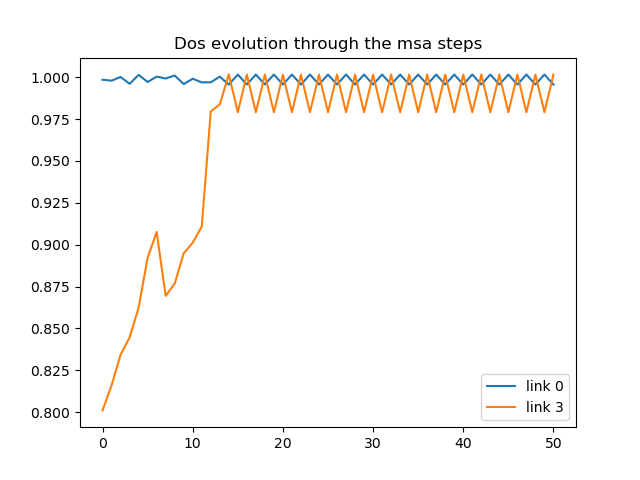
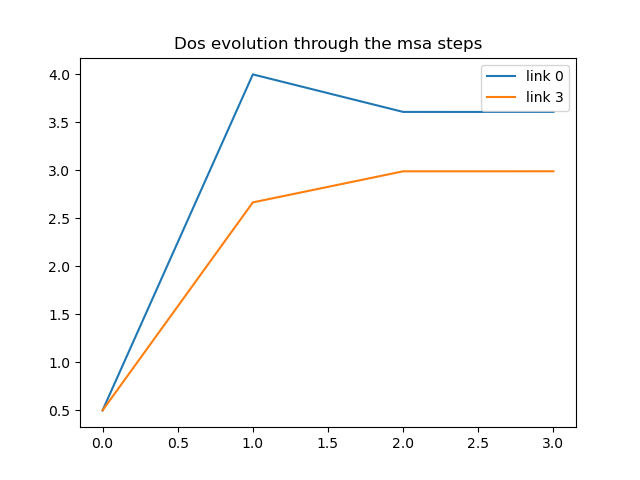
changes + summaries

diff --git a/ownCode/main.py b/ownCode/main.py
@@ -18,137 +18,145 @@ from bokeh.io import export_png
 
 #main function where we merge everything together
 def main():
-        #two cost functions at the moment
-        # 'bpr' to use the bpr cost function
-        # 'WebsterTwoTerm' to use the webster two term delay cost function
-    methodCost = 'bpr'
+    demands = [80,100,115,150,200,400]
+    for demand_i in demands:
+            #two cost functions at the moment
+            # 'bpr' to use the bpr cost function
+            # 'WebsterTwoTerm' to use the webster two term delay cost function
+        methodCost = 'WebsterTwoTerm'
 
-        #two green time policies
-        # 'equisaturation' 
-        # 'P0'
-    methodGreen = 'equisaturation'
+            #two green time policies
+            # 'equisaturation' 
+            # 'P0'
+        methodGreen = 'P0'
 
-    plot = True
+        plot = True
 
-    #setup
-    print("STARTING SETUP")
-    g, ODcentroids, odFile = makeOwnToyNetwork('simple')
-    ODMatrix_location = str(pathlib.Path(__file__).parent)+'/data/'+str(odFile)
-    ODMatrix = np.genfromtxt(ODMatrix_location, delimiter=',')
-    odGraph = getODGraph(ODMatrix_location, ODcentroids)
-    
-    demand = ODMatrix[np.nonzero(ODMatrix)][0]
-    assignment = GreenStaticAssignment(g, odGraph)
+        #setup
+        print("STARTING SETUP")
+        g, ODcentroids, odFile = makeOwnToyNetwork('simple')
+        matrix = np.zeros([4,4])
+        matrix[0,3] = demand_i
+        ODMatrix_location = str(pathlib.Path(__file__).parent)+'/data/'+str(odFile)
+        np.savetxt(ODMatrix_location, matrix, delimiter=",")
+        
+        ODMatrix = np.genfromtxt(ODMatrix_location, delimiter=',')
+        odGraph = getODGraph(ODMatrix_location, ODcentroids)
+        
+        demand = ODMatrix[np.nonzero(ODMatrix)][0]
+        assignment = GreenStaticAssignment(g, odGraph)
 
-    summary_string = 'Cost method: {}\nPolicy: {}\nDemand: {}\n\n'.format(methodCost, methodGreen,demand)
+        summary_string = 'Cost method: {}\nPolicy: {}\nDemand: {}\n\n'.format(methodCost, methodGreen,demand)
 
-    print("RUNNING FIRST STATIC ASSIGNMENT WITH TRAFFIC LIGHTS (equal distributed)")
+        print("RUNNING FIRST STATIC ASSIGNMENT WITH TRAFFIC LIGHTS (equal distributed)")
 
-    #starting with 0.5 at every two link node
-        #hardCoded for simple
-    firstGreen = {0: 0.5, 1: 1, 2: 1, 3: 0.5}
+        #starting with 0.5 at every two link node
+            #hardCoded for simple
+        firstGreen = {0: 0.5, 1: 1, 2: 1, 3: 0.5}
+            #hardCoded for complex 
+        #firstGreen = {0: 1, 1: 1, 2: 0.5, 3: 1, 4: 1, 5: 1, 6: 1, 7: 0.5, 8: 0.5, 9: 1, 10: 1, 11: 1, 12: 0.5, 13: 0.5, 14: 1, 15: 0.5}
+        summary_string += "initial greens: link 0 = {},   link 3 = {}\n".format(firstGreen[0], firstGreen[3])
 
-        #hardCoded for complex 
-    #firstGreen = {0: 1, 1: 1, 2: 0.5, 3: 1, 4: 1, 5: 1, 6: 1, 7: 0.5, 8: 0.5, 9: 1, 10: 1, 11: 1, 12: 0.5, 13: 0.5, 14: 1, 15: 0.5}
-    summary_string += "initial greens: link 0 = {},   link 3 = {}\n".format(firstGreen[0], firstGreen[3])
-
-    #initial msa without traffic lights
-            #result2 = assignment.run('msa')
-    [result, ff_tt, dos] = assignment.run_greens('msa', firstGreen,methodCost,g)
-    #calculate the first green times according the first static assignment
-    print('\nflows: '+str(result.flows))
-    print('free flow cost: {}'.format(ff_tt))
-    summary_string += "free flow cost: link 0 = {},   link 3 = {}\n\n".format(round(ff_tt[0],3), round(ff_tt[3],3))
-    greens,diff, _ = get_green_times(assignment.internal_network.links.capacity,result.flows,assignment, methodGreen, firstGreen, g, ff_tt)
-    print('greens: '+ str(greens))
-
-
-
-    #show_network(g, flows = result.flows, euclidean=True)
-    #start the loop
-    print('START THE LOOP')
-        #initialise parameters and variables
-    delta = 0.001
-    maxLoops = 50
-    safety = 0
-    gap = 1
-    flows_gap = []
-    cost_link_a = [result.link_costs[0]]
-    cost_link_b = [result.link_costs[3]]
-    green_link_a = [greens[0]]
-    green_link_b = [greens[3]]
-    if methodCost == 'WebsterTwoTerm':
-        dos_link_a = [dos[0]]
-        dos_link_b = [dos[3]]
-    diff_l = [diff]
-    prev_flow = np.zeros(len(result.flows))
-    while gap > delta and safety < maxLoops:
-        safety += 1
-        print('#### LOOP = '+str(safety))
-
-        newResult, ff_tt, dos = assignment.run_greens('msa', greens,methodCost,g)
-        print('flows: {}'.format(newResult.flows))
-        print('link costs: {}'.format(newResult.link_costs))
+        #initial msa without traffic lights
+                #result2 = assignment.run('msa')
+        [result, ff_tt, dos] = assignment.run_greens('msa', firstGreen,methodCost,g)
+        #calculate the first green times according the first static assignment
+        print('\nflows: '+str(result.flows))
         print('free flow cost: {}'.format(ff_tt))
-        if methodCost == 'WebsterTwoTerm':
+        summary_string += "free flow cost: link 0 = {},   link 3 = {}\n\n".format(round(ff_tt[0],3), round(ff_tt[3],3))
+        greens,diff, _ = get_green_times(assignment.internal_network.links.capacity,result.flows,assignment, methodGreen, firstGreen, g, ff_tt)
+        print('greens: '+ str(greens))
+
+
+
+        #show_network(g, flows = result.flows, euclidean=True)
+        #start the loop
+        print('START THE LOOP')
+            #initialise parameters and variables
+        delta = 10**-4
+        maxLoops = 100
+        safety = 0
+        gap = 1
+        gap2 = 1
+        flows_gap = []
+        cost_link_a = [result.link_costs[0]]
+        cost_link_b = [result.link_costs[3]]
+        green_link_a = [greens[0]]
+        green_link_b = [greens[3]]
+        dos_link_a = [firstGreen[0],dos[0]]
+        dos_link_b = [firstGreen[3],dos[3]]
+        diff_l = [diff]
+        prev_flow = np.zeros(len(result.flows))
+        while gap > delta and safety < maxLoops:
+            safety += 1
+            print('#### LOOP = '+str(safety))
+
+            newResult, ff_tt, dos = assignment.run_greens('msa', greens,methodCost,g)
+            print('flows: {}'.format(newResult.flows))
+            print('link costs: {}'.format(newResult.link_costs))
+            print('free flow cost: {}'.format(ff_tt))
             dos_link_a.append(dos[0])
             dos_link_b.append(dos[3])
 
-        newGreens, diff, theoreticalGreenTime = get_green_times(assignment.internal_network.links.capacity, newResult.flows, assignment, methodGreen, greens, g, ff_tt)
-        diff_l.append(diff)
+            newGreens, diff, theoreticalGreenTime = get_green_times(assignment.internal_network.links.capacity, newResult.flows, assignment, methodGreen, greens, g, ff_tt)
+            diff_l.append(diff)
 
-        green_link_a.append(newGreens[0])
-        green_link_b.append(newGreens[3])
-        #calculating the gap 
-        gap = np.linalg.norm(np.subtract(result.flows, newResult.flows)) + np.linalg.norm(np.subtract(prev_flow, newResult.flows))
-        print('Gap = {}\n'.format(gap))
+            green_link_a.append(newGreens[0])
+            green_link_b.append(newGreens[3])
+            #calculating the gap 
+                #use flow gap
+            gap = np.linalg.norm(np.subtract(result.flows, newResult.flows)) + np.linalg.norm(np.subtract(prev_flow, newResult.flows))
+                #use greens gap
+            gap2 = np.linalg.norm(np.subtract(list(greens.values()), list(newGreens.values())))
+            print('Gap = {}'.format(gap))
+            print('Green gap = {}\n'.format(gap2))
 
 
-        #add intermediate results to the list to plot
-        flows_gap.append(gap)
-        cost_link_a.append(newResult.link_costs[0])
-        cost_link_b.append(newResult.link_costs[3])
+            #add intermediate results to the list to plot
+            flows_gap.append(gap)
+            cost_link_a.append(newResult.link_costs[0])
+            cost_link_b.append(newResult.link_costs[3])
 
-        prev_flow = result.flows
-        result = newResult
-        greens = newGreens
+            prev_flow = result.flows
+            result = newResult
+            greens = newGreens
 
-    summary_string += "link flows: link 0 = {},   link 3 = {}\n".format(round(result.flows[0],3), round(result.flows[3],3))
-    summary_string += "link costs: link 0 = {},   link 3 = {}\n".format(round(result.link_costs[0],3), round(result.link_costs[3],3))
-    summary_string += "final green times: link 0 = {},   link 3 = {}\n".format(round(greens[0],3), round(greens[3],3))
-    summary_string += "final Theoretical green times: link 0 = {},   link 3 = {}\n".format(round(theoreticalGreenTime[0],3), round(theoreticalGreenTime[1],3))
-    
-
-    graph = show_network(g, flows = result.flows, euclidean=True,return_plot=True)
-    export_png(graph, filename=str(pathlib.Path(__file__).parent)+'/summaryFiles/rawFigures/network.png' )
-    listOfPlots = ['network.png']
-    if plot:
-        ## graph plots 
-        """ plt.figure()
-        plt.plot(flows_gap)
-        plt.title('Evolution of the gap during the iterations') """
+        summary_string += "link flows: link 0 = {},   link 3 = {}\n".format(round(result.flows[0],3), round(result.flows[3],3))
+        summary_string += "link costs: link 0 = {},   link 3 = {}\n".format(round(result.link_costs[0],3), round(result.link_costs[3],3))
+        summary_string += "final green times: link 0 = {},   link 3 = {}\n".format(round(greens[0],3), round(greens[3],3))
+        if theoreticalGreenTime != []: 
+            summary_string += "final Theoretical green times: link 0 = {},   link 3 = {}\n".format(round(theoreticalGreenTime[0],3), round(theoreticalGreenTime[1],3))
         
-        plt.figure()
-        plt.plot(cost_link_a)
-        plt.plot(cost_link_b)
-        plt.title('Evolution of the link costs on the two intersection links')
-        plt.legend(['link 0','link 3'])
-        plt.savefig(str(pathlib.Path(__file__).parent)+'/summaryFiles/rawFigures/linkCost.png')
-        listOfPlots.append('linkCost.png')
 
-        plt.figure()
-        plt.plot(green_link_a)
-        plt.plot(green_link_b)
-        plt.title('Green time evolution')
-        plt.legend(['link 0', 'link 3'])
-        plt.savefig(str(pathlib.Path(__file__).parent)+'/summaryFiles/rawFigures/greenTime.png')
-        listOfPlots.append('greenTime.png')
+        graph = show_network(g, flows = result.flows, euclidean=True,return_plot=True)
+        export_png(graph, filename=str(pathlib.Path(__file__).parent)+'/summaryFiles/rawFigures/network.png' )
+        listOfPlots = ['network.png']
+        if plot:
+            ## graph plots 
+            """ plt.figure()
+            plt.plot(flows_gap)
+            plt.title('Evolution of the gap during the iterations') """
+            
+            plt.figure()
+            plt.plot(cost_link_a)
+            plt.plot(cost_link_b)
+            plt.title('Evolution of the link costs on the two intersection links')
+            plt.legend(['link 0','link 3'])
+            plt.savefig(str(pathlib.Path(__file__).parent)+'/summaryFiles/rawFigures/linkCost.png')
+            listOfPlots.append('linkCost.png')
 
-        """ plt.figure()
-        plt.plot(diff_l)
-        plt.title("evolution of policy constraint (gap = change between the two)") """
+            plt.figure()
+            plt.plot(green_link_a)
+            plt.plot(green_link_b)
+            plt.title('Green time evolution')
+            plt.legend(['link 0', 'link 3'])
+            plt.savefig(str(pathlib.Path(__file__).parent)+'/summaryFiles/rawFigures/greenTime.png')
+            listOfPlots.append('greenTime.png')
 
-        if methodCost == 'WebsterTwoTerm':
+            """ plt.figure()
+            plt.plot(diff_l)
+            plt.title("evolution of policy constraint (gap = change between the two)") """
+
             plt.figure()
             plt.plot(dos_link_a)
             plt.plot(dos_link_b)
@@ -156,9 +164,10 @@ def main():
             plt.legend(['link 0', 'link 3'])
             plt.savefig(str(pathlib.Path(__file__).parent)+'/summaryFiles/rawFigures/dos.png')
             listOfPlots.append('dos.png')
+                
 
-    print(summary_string)
-    create_summary(listOfPlots, summary_string, methodCost, methodGreen, demand )
+        print(summary_string)
+        create_summary(listOfPlots, summary_string, methodCost, methodGreen, demand )
 
 
 

diff --git a/ownCode/greenTimes.py b/ownCode/greenTimes.py
@@ -4,7 +4,7 @@ from ownFunctions import getIntersections
 from cost_functions import __bpr_green_cost_single
 bpr_b = parameters.static_assignment.bpr_beta
 bpr_a = parameters.static_assignment.bpr_alpha
-msa_delta = parameters.static_assignment.msa_delta
+msa_delta = 10**-5
 
 
 def get_green_times(caps, flows, assignment, method, oldGreenTimesDic, g, ff_tt ):
@@ -81,7 +81,7 @@ def msa_green_times(caps, flows, initial_greens, ff_tts, method):
                     equal = False
             return equal
         greens = safety_greens(greens)
-        converged = ((np.linalg.norm(np.subtract(newGreens,greens))+np.linalg.norm(np.subtract(newGreens,previous_greens))) < msa_delta) or (check_for_equality(equality))
+        converged = ((np.linalg.norm(np.subtract(newGreens,greens))+np.linalg.norm(np.subtract(newGreens,previous_greens))) < 10**-5) or (check_for_equality(equality))
         previous_greens = greens
         greens = newGreens
 
@@ -125,9 +125,7 @@ def equisaturationGreenTimes(caps, flows, initial_greens, ff_tts, method):
 
      #this is needed to compare the results
     theoreticalGreenTime = theoreticalEquisaturationGreenTimes(caps, flows)
-    print('Theoretical Equisaturation Green Times = {}\n'.format(theoreticalGreenTime))
-
-    return greens,np.diff(equality)[0], theoreticalGreenTime
+    return greens,np.diff(equality)[0], []
 
 #finding the theoretical equisaturation green times
 def theoreticalEquisaturationGreenTimes(caps, flows):
@@ -177,7 +175,7 @@ def P0policyGreenTimes(caps, flows, initial_greens, ff_tts, method):
     #this is needed to compare the results
     theoreticalGreenTime = theoreticalP0Greens(caps, flows, ff_tts)
     print('Theoretical P0 Green Times = {}\n'.format(theoreticalGreenTime))
-    return greens,np.diff(equality)[0], theoreticalGreenTime
+    return greens,np.diff(equality)[0], []
 
 #finding the theoretical P0 green times
 def theoreticalP0Greens(caps, flows, ff_tts):
@@ -219,7 +217,7 @@ def theoreticalP0Greens(caps, flows, ff_tts):
 
 #delay = bpr function + free flow
 def get_link_delay(flow, cap , ff_tt, g_time):
-    return __bpr_green_cost_single(flow, cap, ff_tt , g_time) - ff_tt
+    return __bpr_green_cost_single(flow, cap, ff_tt , g_time)[0] - ff_tt
 
 """ def get_link_delay(flow, cap,  ff_tt, g_time, signalized_node,assignment, idx):
     #first check if there are also non intersection links part of the path

diff --git a/ownCode/cost_functions.py b/ownCode/cost_functions.py
@@ -10,20 +10,24 @@ bpr_a = parameters.static_assignment.bpr_alpha
 def __bpr_green_cost(flows, capacities, ff_tts, g_times,g):
     number_of_links = len(flows)
     costs = np.empty(number_of_links, dtype=np.float64)
+    dos = np.empty(number_of_links, dtype=np.float64)
     signal_links = getIntersections(g)[2]
     for it, (f, c, ff_tt,g_time) in enumerate(zip(flows, capacities, ff_tts, g_times)):
         assert c != 0
         if signal_links[it] == 1:
-            costs[it] = __bpr_green_cost_single(f, c, ff_tt,g_time)
+            costs[it], dos[it] = __bpr_green_cost_single(f, c, ff_tt,g_time)
+            
         else:
             costs[it] = ff_tts[it]
-    return costs
+            dos[it] = None
+    return costs, dos
 
 #building our own bpr funtion 
 def __bpr_green_cost_single(flow, capacity, ff_tt, g_time):
     #print('delay due to flow, {}, cap {}, ff_tt {} and green {} = {}'.format(flow, capacity,  ff_tt,g_time, np.multiply(bpr_a, pow((flow / (np.multiply(capacity ,g_time))), bpr_b))))
     cost = ff_tt * (1.0 + np.multiply(bpr_a, pow((flow / (np.multiply(capacity ,g_time))), bpr_b)))
-    return cost
+    dos = flow/(capacity*g_time)
+    return cost,dos
 
 def __webster_two_term_green(flows, capacities, ff_tts, g_times,g):
     number_of_links = len(flows)

diff --git a/ownCode/dyntapy_green_time_change.py b/ownCode/dyntapy_green_time_change.py
@@ -24,7 +24,7 @@ from dyntapy.sta.utilities import aon
 
 gap_definition = "relative gap"
 msa_max_iterations = parameters.static_assignment.msa_max_iterations
-msa_delta = parameters.static_assignment.msa_delta
+msa_delta = 10**-4
 
 class GreenStaticAssignment(StaticAssignment):
 
@@ -77,7 +77,7 @@ def msa_green_flow_averaging(
         k = k + 1
         if k == 1:
             if method == 'bpr':
-                costs = __bpr_green_cost(
+                [costs, dos] = __bpr_green_cost(
                     capacities=network.links.capacity,
                     ff_tts=ff_tt_adjusted,
                     flows=f2,
@@ -94,7 +94,7 @@ def msa_green_flow_averaging(
                 )
         else:
             if method == 'bpr':
-                costs = __bpr_green_cost(
+                [costs, dos] = __bpr_green_cost(
                     capacities=network.links.capacity,
                     ff_tts=ff_tt_adjusted,
                     flows=f2,
